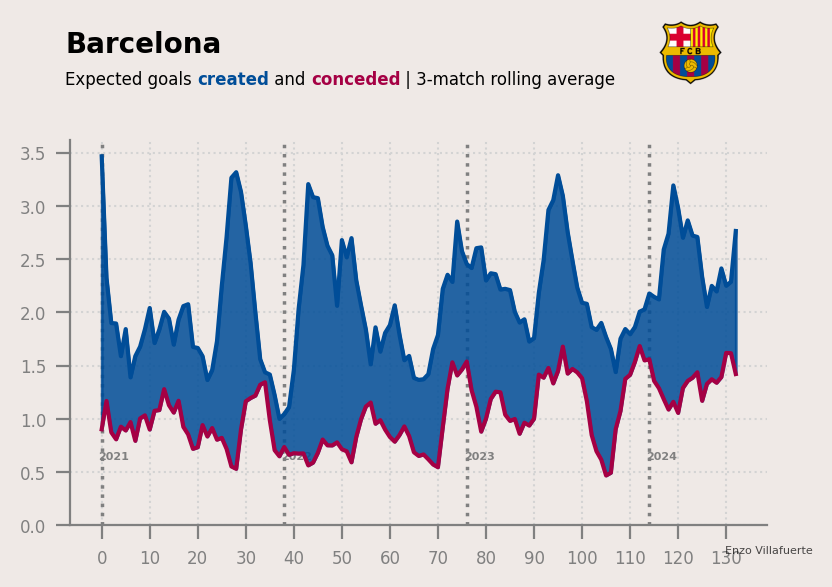
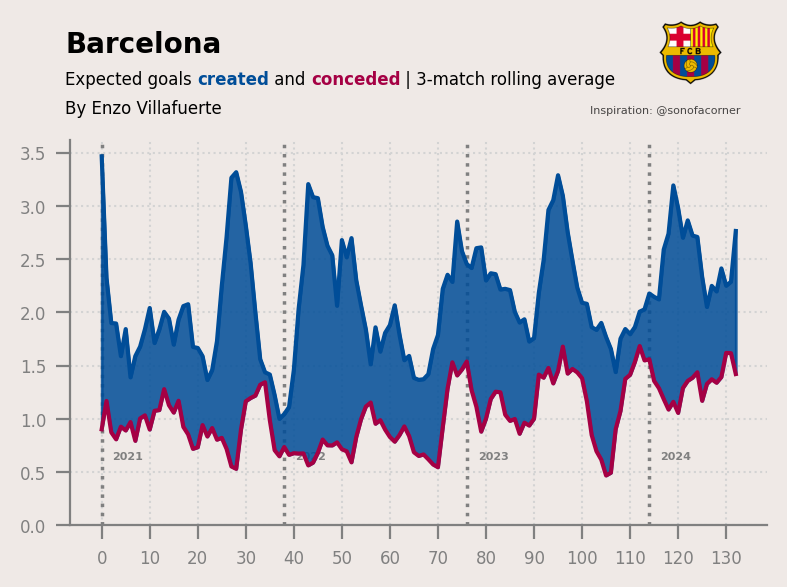
Baseline Code finalized
Still need to finish the argvs part

diff --git a/xg_moving_average/xg_moving_average.py b/xg_moving_average/xg_moving_average.py
@@ -7,6 +7,7 @@ import seaborn as sns
 import json
 import time 
 import matplotlib.ticker as ticker
+import matplotlib.image as mpimg
 from highlight_text import fig_text
 from PIL import Image
 import urllib
@@ -273,7 +274,7 @@ fig_text(
 
 fig_text(
     x=0.12, y=1.02,
-    s = f"Expected goals <created> and <conceded> | 3-match rolling average\n",
+    s = f"Expected goals <created> and <conceded> | 3-match rolling average\nBy Enzo Villafuerte",
     highlight_textprops = [
         {"color": line_1[0].get_color(), "weight": "bold"},
         {"color": line_2[0].get_color(), "weight": "bold"}
@@ -283,14 +284,26 @@ fig_text(
     annotationbbox_kw={"xycoords": "figure fraction"}
 )
 
+
+# Adjust the image programatically - Pull the logo from Figures folder, similar to post_game_viz.py
+
+logo_ax = fig.add_axes([0.75, .99, 0.13, 0.13], zorder=1)
+club_icon = mpimg.imread(f'team_logos/{team}.png')
+logo_ax.imshow(club_icon)
+logo_ax.axis("off")
+
+"""
+UNCOMMENT THE FOLLOWING IF NEED TO PULL LOGO FROM FOTMOB
+
 fotmob_url = "https://images.fotmob.com/image_resources/logo/teamlogo/"
 
 logo_ax = fig.add_axes([0.75, .99, 0.13, 0.13], zorder=1)
 club_icon = Image.open(urllib.request.urlopen(f"{fotmob_url}8634.png"))
 logo_ax.imshow(club_icon)
 logo_ax.axis("off")
+"""
 
-fig.text(0.95, 0.05, 'Enzo Villafuerte', fontsize=4, color='black', ha='right', va='bottom', alpha=0.7)
+fig.text(0.87, 0.93, 'Inspiration: @sonofacorner', fontsize=4, color='black', ha='right', va='bottom', alpha=0.7)
 
 ####
 
